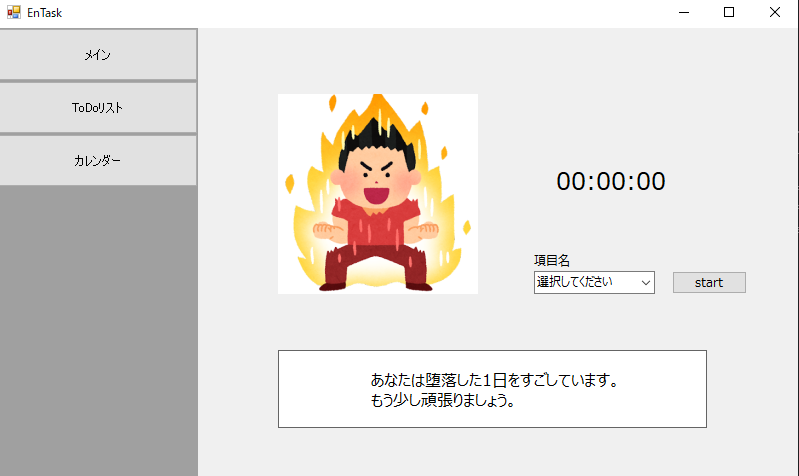
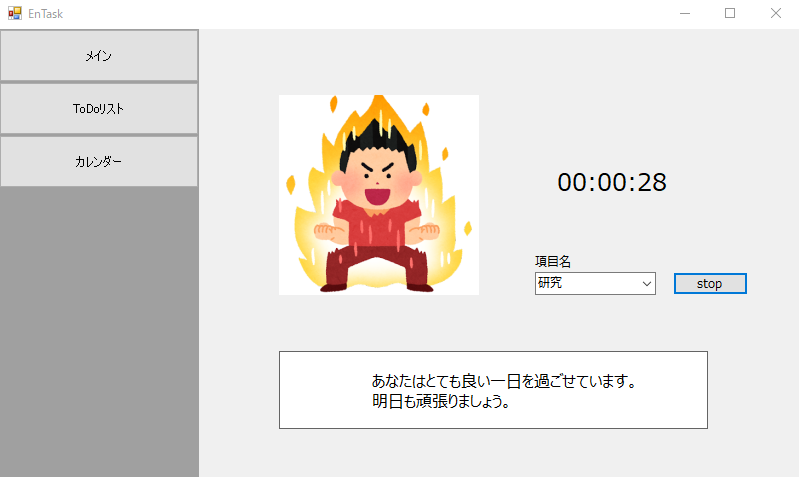
微修正

diff --git a/README.md b/README.md
@@ -1,15 +1,15 @@
 # EnTask
 
-EnTaskは時間トラッキングとGoogleカレンダーへのイベントの自動登録を行うWindows Formsアプリケーションです。
+EnTaskは時間管理ができない人のための、Todoリストとカレンダーを連動させ、記録を残すWindows Formsアプリケーションです。
 
 ## 使い方
 
 1. [リソース](https://github.com/sasamina3337/EnTask)から最新版のEnTaskをcloneします。
-2. ダウンロードしたファイルをVisual Studio Cominityでコンパイルし、`EnTask.exe`を実行します。その際に、client_secret.jsonをexeファイルと同じディレクトリ内に配置してください。
-3. メインフォームが表示されます。Googleアカウントを用いて認証を行ってください。ここから時間のカウントを開始することができます。
-4. カウント開始ボタンを押すと、カウントが開始されます。カウントを停止するには、同じボタンをもう一度押します。
-5. カウントを停止すると、カウントした時間がGoogleカレンダーの指定したイベントに自動で登録されます。
-6. Todoリスト機能は登録、修正、削除の機能があります。
+2. ダウンロードしたファイルをVisual Studio Cominityでコンパイルし、`EnTask.exe`を実行します。その際に、[GoogleApI](https://console.cloud.google.com/)からグーグルカレンダーAPIを登録し、OAuth認証しそのjsonファイルをclient_secret.jsonとリネームしてexeファイルと同じディレクトリ内に配置してください。
+3. メインフォームが表示されます。Googleアカウントを用いて認証を行ってください。
+4. まず、初めにTodoリストで項目と1日の目標時間を決めてください。カテゴリ登録することで分類分けすることが可能です。
+5. 項目を選択し、カウント開始ボタンを押すと、カウントが開始されます。トップ画面の画像は1日ごとの仕事量のタスク量に応じて変化します。カウントを停止するには、同じボタンをもう一度押します。
+6. カウントを停止すると、カウントした時間と項目名がGoogleカレンダーに記録され、登録、更新、削除をクライアント側で行うことができます。
 
 ## スクリーンショット
 ![EnTaskのスクリーンショット](./screenshot.png)
